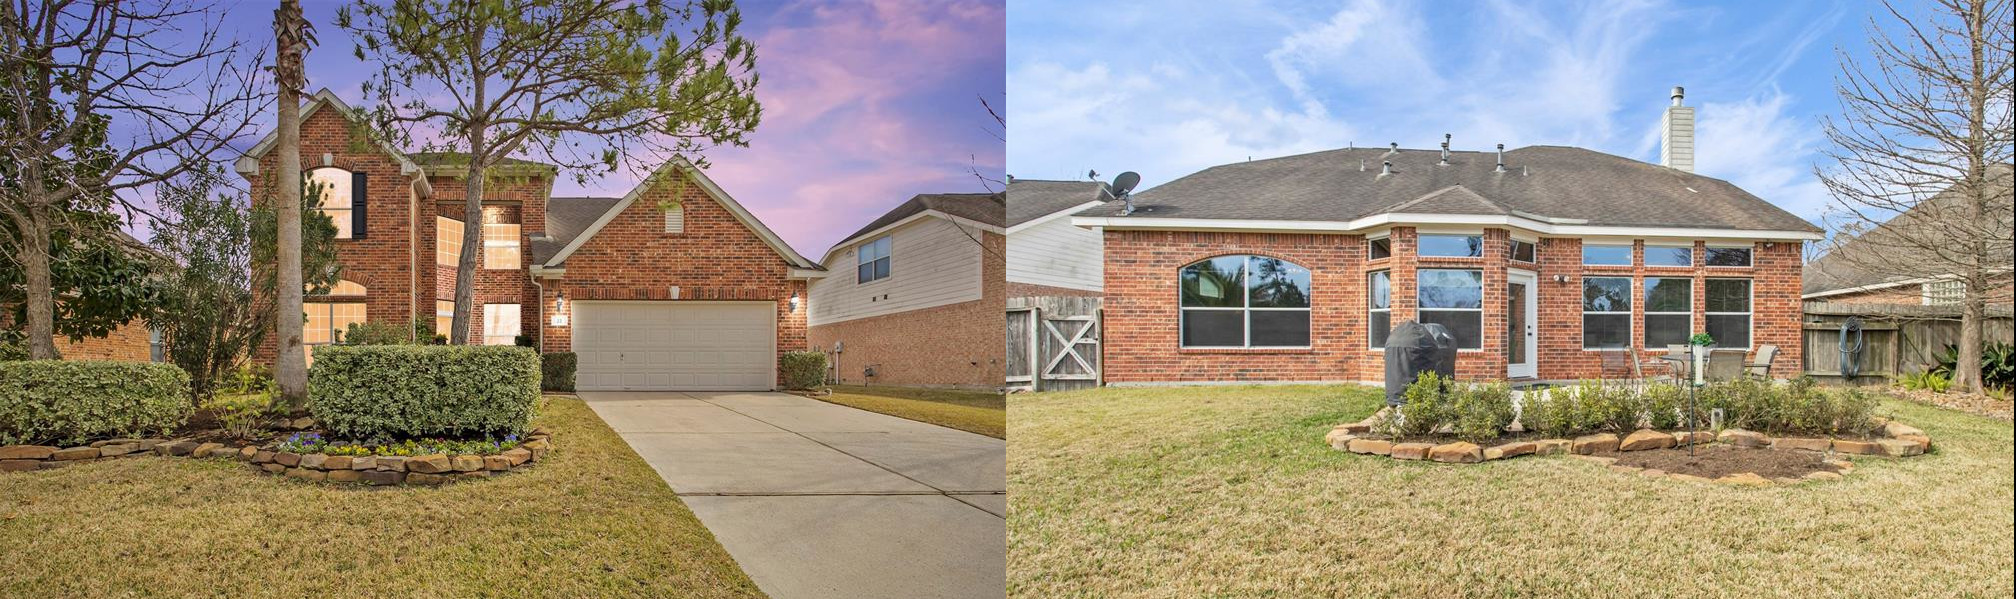
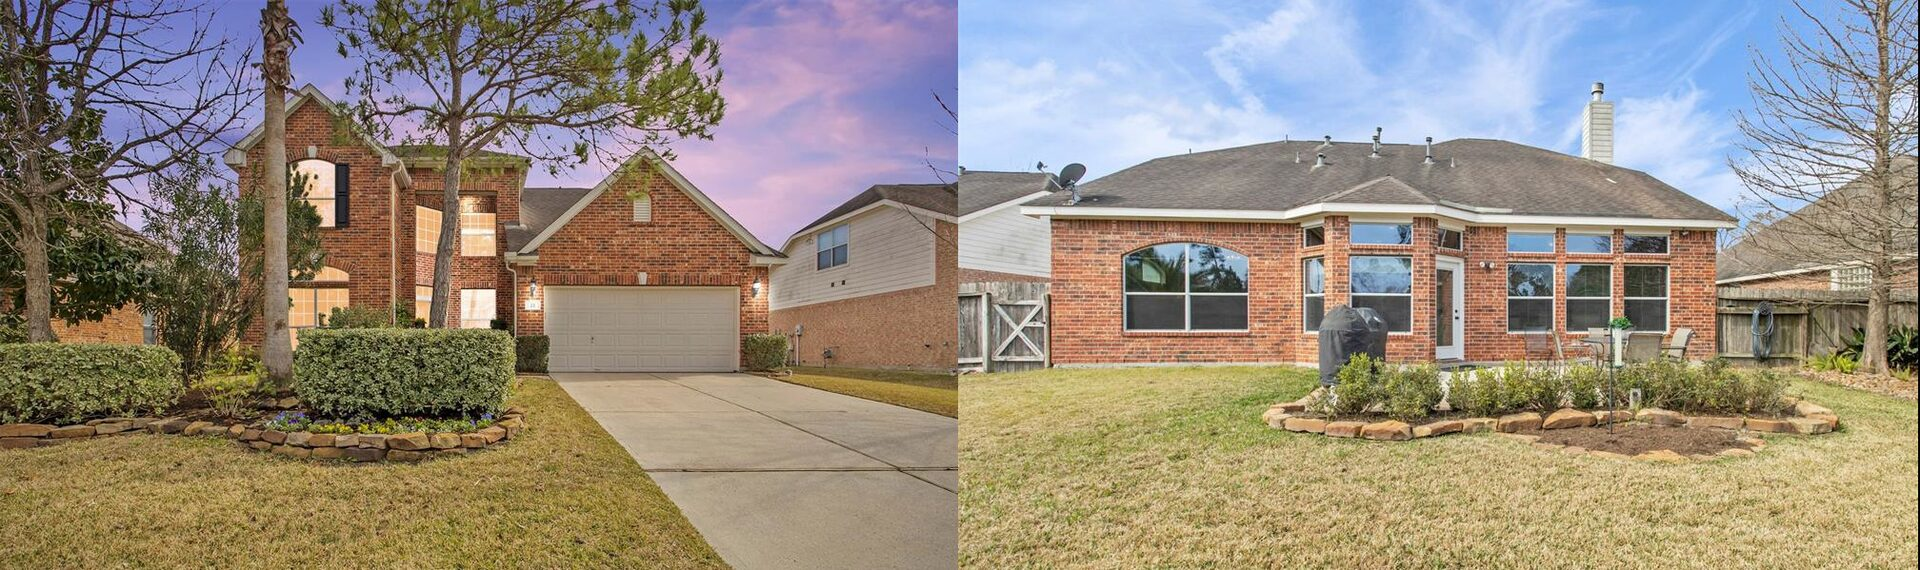
Added local business schema for SEO

diff --git a/index.html b/index.html
@@ -1,8 +1,22 @@
 <!DOCTYPE html>
-<html>
+<html lang="en">
 
 <head>
-  <title>The Woodlands Child Care - Honeybee and Friends Daycare</title>
+  <meta charset="UTF-8">
+  <title>Home Daycare in The Woodlands & Conroe TX | Honeybee and Friends Daycare</title>
+
+  <!-- SEO Meta Tags -->
+  <meta name="description" content="Licensed home daycare in The Woodlands, TX serving Harper's Landing, Conroe, Shenandoah & Oakridge. State-certified childcare for ages 18 months to 5 years. Call 832-810-2722.">
+  <meta name="keywords" content="daycare The Woodlands, childcare Conroe TX, home daycare Harper's Landing, preschool The Woodlands, toddler care 77385, licensed daycare Shenandoah, Oakridge childcare">
+  <meta name="author" content="Susan Kralevich">
+  <meta name="robots" content="index, follow">
+  <link rel="canonical" href="https://honeybeeandfriends.buzz/">
+
+  <!-- Geographic Meta Tags for Local SEO -->
+  <meta name="geo.region" content="US-TX">
+  <meta name="geo.placename" content="The Woodlands, Texas">
+  <meta name="geo.position" content="30.2078;-95.4613">
+  <meta name="ICBM" content="30.2078, -95.4613">
 
   <!-- Favicon HTML -->
   <link rel="apple-touch-icon" sizes="180x180" href="apple-touch-icon.png">
@@ -12,19 +26,155 @@
   <link rel="mask-icon" href="safari-pinned-tab.svg" color="#5bbad5">
   <meta name="msapplication-TileColor" content="#da532c">
   <meta name="theme-color" content="#ffffff">
-  <meta name="description" content="Daycare in The Woodlands, TX">
   <link rel="stylesheet" href="index.css">
   <meta name="viewport" content="width=device-width, initial-scale=1.0">
+
+  <!-- Open Graph / Facebook -->
+  <meta property="og:type" content="business.business">
+  <meta property="og:url" content="https://honeybeeandfriends.buzz/">
+  <meta property="og:title" content="Honeybee and Friends Daycare | The Woodlands & Conroe TX">
+  <meta property="og:description" content="A comfortable, home environment for your child to learn and play. State-certified daycare run by an experienced educator serving The Woodlands, Harper's Landing, Conroe, Shenandoah & Oakridge.">
+  <meta property="og:image" content="https://honeybeeandfriends.buzz/facebook-advert.png">
+  <meta property="og:image:width" content="1200">
+  <meta property="og:image:height" content="607">
+  <meta property="business:contact_data:street_address" content="Harper's Landing">
+  <meta property="business:contact_data:locality" content="The Woodlands">
+  <meta property="business:contact_data:region" content="Texas">
+  <meta property="business:contact_data:postal_code" content="77385">
+  <meta property="business:contact_data:country_name" content="United States">
+
+  <!-- Twitter Card -->
+  <meta name="twitter:card" content="summary_large_image">
+  <meta name="twitter:title" content="Honeybee and Friends Daycare | The Woodlands TX">
+  <meta name="twitter:description" content="Licensed home daycare in The Woodlands serving Harper's Landing, Conroe & Shenandoah. Ages 18 months to 5 years.">
+  <meta name="twitter:image" content="https://honeybeeandfriends.buzz/facebook-advert.png">
+
+  <!-- Local Business Structured Data (Schema.org) -->
+  <script type="application/ld+json">
+  {
+    "@context": "https://schema.org",
+    "@type": "ChildCare",
+    "@id": "https://honeybeeandfriends.buzz/#childcare",
+    "name": "Honeybee and Friends Daycare",
+    "alternateName": "Honeybee & Friends Daycare",
+    "description": "State-certified home daycare in The Woodlands, Texas providing quality childcare for children ages 18 months to 5 years. Our structured curriculum includes educational activities, creative play, and nutritious meals in a safe, nurturing environment.",
+    "url": "https://honeybeeandfriends.buzz/",
+    "logo": "https://honeybeeandfriends.buzz/Heading.png",
+    "image": [
+      "https://honeybeeandfriends.buzz/house-contact.jpeg",
+      "https://honeybeeandfriends.buzz/slideshow-opendoor.jpg",
+      "https://honeybeeandfriends.buzz/facebook-advert.png"
+    ],
+    "telephone": "+1-832-810-2722",
+    "email": "susan@honeybeeandfriends.buzz",
+    "address": {
+      "@type": "PostalAddress",
+      "streetAddress": "22 New Dawn Pl",
+      "addressLocality": "The Woodlands",
+      "addressRegion": "TX",
+      "postalCode": "77385",
+      "addressCountry": "US"
+    },
+    "geo": {
+      "@type": "GeoCoordinates",
+      "latitude": 30.2078,
+      "longitude": -95.4613
+    },
+    "areaServed": [
+      {
+        "@type": "Place",
+        "name": "Harper's Landing, The Woodlands, TX"
+      },
+      {
+        "@type": "Place",
+        "name": "The Woodlands, TX"
+      },
+      {
+        "@type": "Place",
+        "name": "Conroe, TX"
+      },
+      {
+        "@type": "Place",
+        "name": "Shenandoah, TX"
+      },
+      {
+        "@type": "Place",
+        "name": "Oakridge, TX"
+      }
+    ],
+    "openingHoursSpecification": [
+      {
+        "@type": "OpeningHoursSpecification",
+        "dayOfWeek": ["Monday", "Tuesday", "Wednesday", "Thursday", "Friday"],
+        "opens": "07:00",
+        "closes": "17:30"
+      }
+    ],
+    "priceRange": "$$",
+    "currenciesAccepted": "USD",
+    "paymentAccepted": "Cash, Credit Card, Debit Card, Check",
+    "founder": {
+      "@type": "Person",
+      "name": "Susan Kralevich",
+      "jobTitle": "Owner and Director",
+      "description": "Texas A&M graduate with BA in Social Work, EC-12 Special Needs teaching certificate, CPR certified, and experienced CNA."
+    },
+    "foundingDate": "2022",
+    "numberOfEmployees": {
+      "@type": "QuantitativeValue",
+      "value": 1
+    },
+    "slogan": "Where little ones learn to love learning",
+    "knowsAbout": [
+      "Early childhood education",
+      "Child development",
+      "Special needs education",
+      "Toddler care",
+      "Preschool preparation"
+    ],
+    "hasOfferCatalog": {
+      "@type": "OfferCatalog",
+      "name": "Childcare Services",
+      "itemListElement": [
+        {
+          "@type": "Offer",
+          "itemOffered": {
+            "@type": "Service",
+            "name": "Full-Time Daycare",
+            "description": "Full-time childcare Monday through Friday, 7:00 AM to 5:30 PM, including breakfast, lunch, and snacks."
+          },
+          "price": "250.00",
+          "priceCurrency": "USD",
+          "priceSpecification": {
+            "@type": "UnitPriceSpecification",
+            "price": "250.00",
+            "priceCurrency": "USD",
+            "unitText": "week"
+          }
+        }
+      ]
+    },
+    "amenityFeature": [
+      {"@type": "LocationFeatureSpecification", "name": "Structured Curriculum", "value": true},
+      {"@type": "LocationFeatureSpecification", "name": "Meals Included", "value": true},
+      {"@type": "LocationFeatureSpecification", "name": "Outdoor Play Area", "value": true},
+      {"@type": "LocationFeatureSpecification", "name": "State Certified", "value": true},
+      {"@type": "LocationFeatureSpecification", "name": "Small Group Size", "value": true}
+    ],
+    "sameAs": [
+      "https://www.facebook.com/HoneybeeAndFriendsDaycare/"
+    ],
+    "aggregateRating": {
+      "@type": "AggregateRating",
+      "ratingValue": "5",
+      "reviewCount": "1"
+    }
+  }
+  </script>
+
   <!-- Global site tag (gtag.js) - Google Analytics -->
   <script async src="https://www.googletagmanager.com/gtag/js?id=UA-235385299-1">
   </script>
-
-  <meta property="og:url" content="https://honeybeeandfriends.buzz/" />
-  <meta property="og:title" content="Honeybee and Friends Daycare" />
-  <meta property="og:description" content="A comfortable, home environment for your child to learn and play in awaits!  Run by an experienced educator and mother, we provide your child with growth through social interaction and one on one learning." />
-  <meta property="og:image" content="https://honeybeeandfriends.buzz/facebook-advert.png" />
-  <meta property="og:image:width" content="1200"/>
-  <meta property="og:image:height" content="607"/>
 
 </head>
 
@@ -207,25 +357,25 @@
           <img src="gallery/thumbnails/house-front.jpg" loading="lazy" alt="Image of front of house">
           <img src="gallery/thumbnails/house-back.jpg" loading="lazy" alt="Image of back of house">
           <img src="gallery/thumbnails/zakariyya-poking-head-bounce-house.jpg" loading="lazy" alt="Child in bounce house">
-          <img src="gallery/thumbnails/IMG_0628.png" loading="lazy" alt="Image of a girl looking out a window with binoculars">
+          <img src="gallery/thumbnails/IMG_0628.jpg" loading="lazy" alt="Image of a girl looking out a window with binoculars">
           <img src="gallery/thumbnails/zakariyya-dice.jpg" loading="lazy" alt="Children playing with dice">
           <img src="gallery/thumbnails/zakariyya-throwing-ball.jpg" loading="lazy" alt="Child throwing ball">
           <img src="gallery/thumbnails/zakariyya-and-stella-covered.jpg" loading="lazy" alt="Children playing together">
           <img src="gallery/thumbnails/zakariyya-dance-in-door.jpg" loading="lazy" alt="Child dancing in doorway">
           <img src="gallery/thumbnails/IMG_0056.jpg" loading="lazy" alt="Image of the front door from the inside.">
-          <img src="gallery/thumbnails/IMG-0642.png" loading="lazy" alt="Image of the arge daycare room">
-          <img src="gallery/thumbnails/IMG-0644.png" loading="lazy" alt="Image of the arge daycare room from another angel">
-          <img src="gallery/thumbnails/IMG-0645.png" loading="lazy" alt="Image of a toy shelf">
-          <img src="gallery/thumbnails/IMG-0646.png" loading="lazy" alt="Image of a shelf with worksheets">
-          <img src="gallery/thumbnails/IMG-0649.png" loading="lazy" alt="Image of a book shelf and bench">
-          <img src="gallery/thumbnails/IMG-0650.png" loading="lazy" alt="Image of an indoor bounce house">
-          <img src="gallery/thumbnails/IMG-0651.png" loading="lazy" alt="Image of the second daycare room">
-          <img src="gallery/thumbnails/IMG-0652.png" loading="lazy" alt="Image of cubbies, a whiteboard, and a TV">
-          <img src="gallery/thumbnails/IMG-0653.png" loading="lazy" alt="Image of play stations">
-          <img src="gallery/thumbnails/IMG-0654.png" loading="lazy" alt="Image of an indoor play hours and calendar">
-          <img src="gallery/thumbnails/IMG-0656.png" loading="lazy" alt="Image of a ballpit and bear chair">
-          <img src="gallery/thumbnails/IMG-0657.png" loading="lazy" alt="Image of a caterpillar made of paper plates">
-          <img src="gallery/thumbnails/IMG-0659.png" loading="lazy" alt="Image of swingset outside">
+          <img src="gallery/thumbnails/IMG-0642.jpg" loading="lazy" alt="Image of the large daycare room">
+          <img src="gallery/thumbnails/IMG-0644.jpg" loading="lazy" alt="Image of the large daycare room from another angle">
+          <img src="gallery/thumbnails/IMG-0645.jpg" loading="lazy" alt="Image of a toy shelf">
+          <img src="gallery/thumbnails/IMG-0646.jpg" loading="lazy" alt="Image of a shelf with worksheets">
+          <img src="gallery/thumbnails/IMG-0649.jpg" loading="lazy" alt="Image of a book shelf and bench">
+          <img src="gallery/thumbnails/IMG-0650.jpg" loading="lazy" alt="Image of an indoor bounce house">
+          <img src="gallery/thumbnails/IMG-0651.jpg" loading="lazy" alt="Image of the second daycare room">
+          <img src="gallery/thumbnails/IMG-0652.jpg" loading="lazy" alt="Image of cubbies, a whiteboard, and a TV">
+          <img src="gallery/thumbnails/IMG-0653.jpg" loading="lazy" alt="Image of play stations">
+          <img src="gallery/thumbnails/IMG-0654.jpg" loading="lazy" alt="Image of an indoor play house and calendar">
+          <img src="gallery/thumbnails/IMG-0656.jpg" loading="lazy" alt="Image of a ballpit and bear chair">
+          <img src="gallery/thumbnails/IMG-0657.jpg" loading="lazy" alt="Image of a caterpillar made of paper plates">
+          <img src="gallery/thumbnails/IMG-0659.jpg" loading="lazy" alt="Image of swingset outside">
           <img src="gallery/thumbnails/IMG_0074.jpg" loading="lazy" alt="Image of a ball-pit and tube.">
           <img src="gallery/thumbnails/IMG_0081.jpg" loading="lazy" alt="Image of a ball-pit and tube">
         </div>
